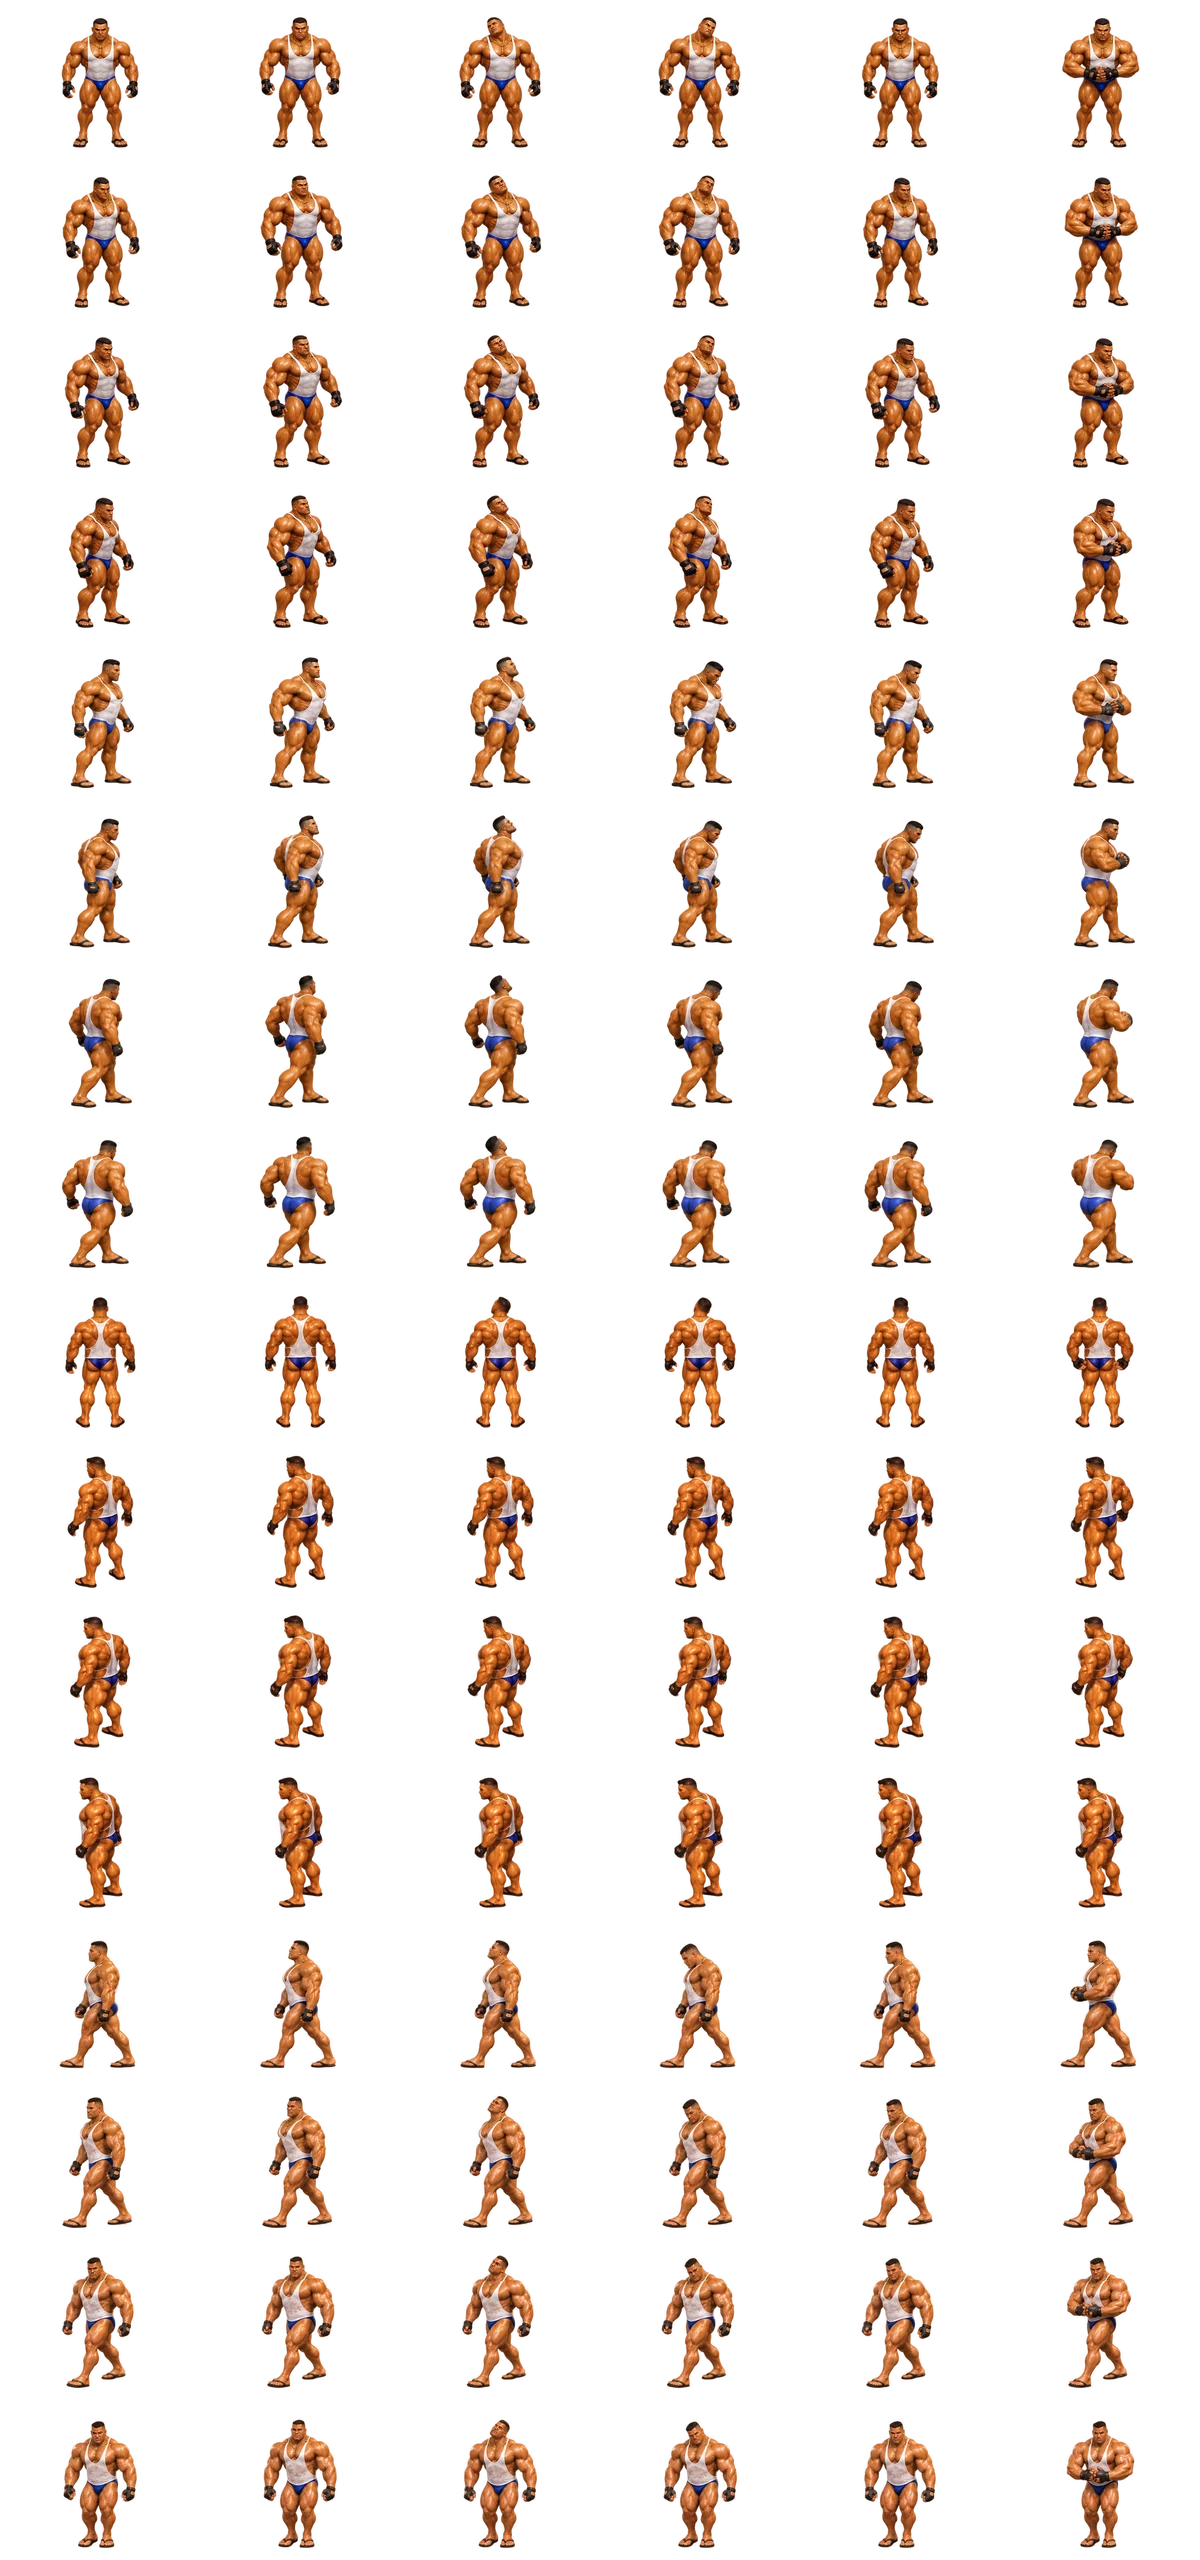
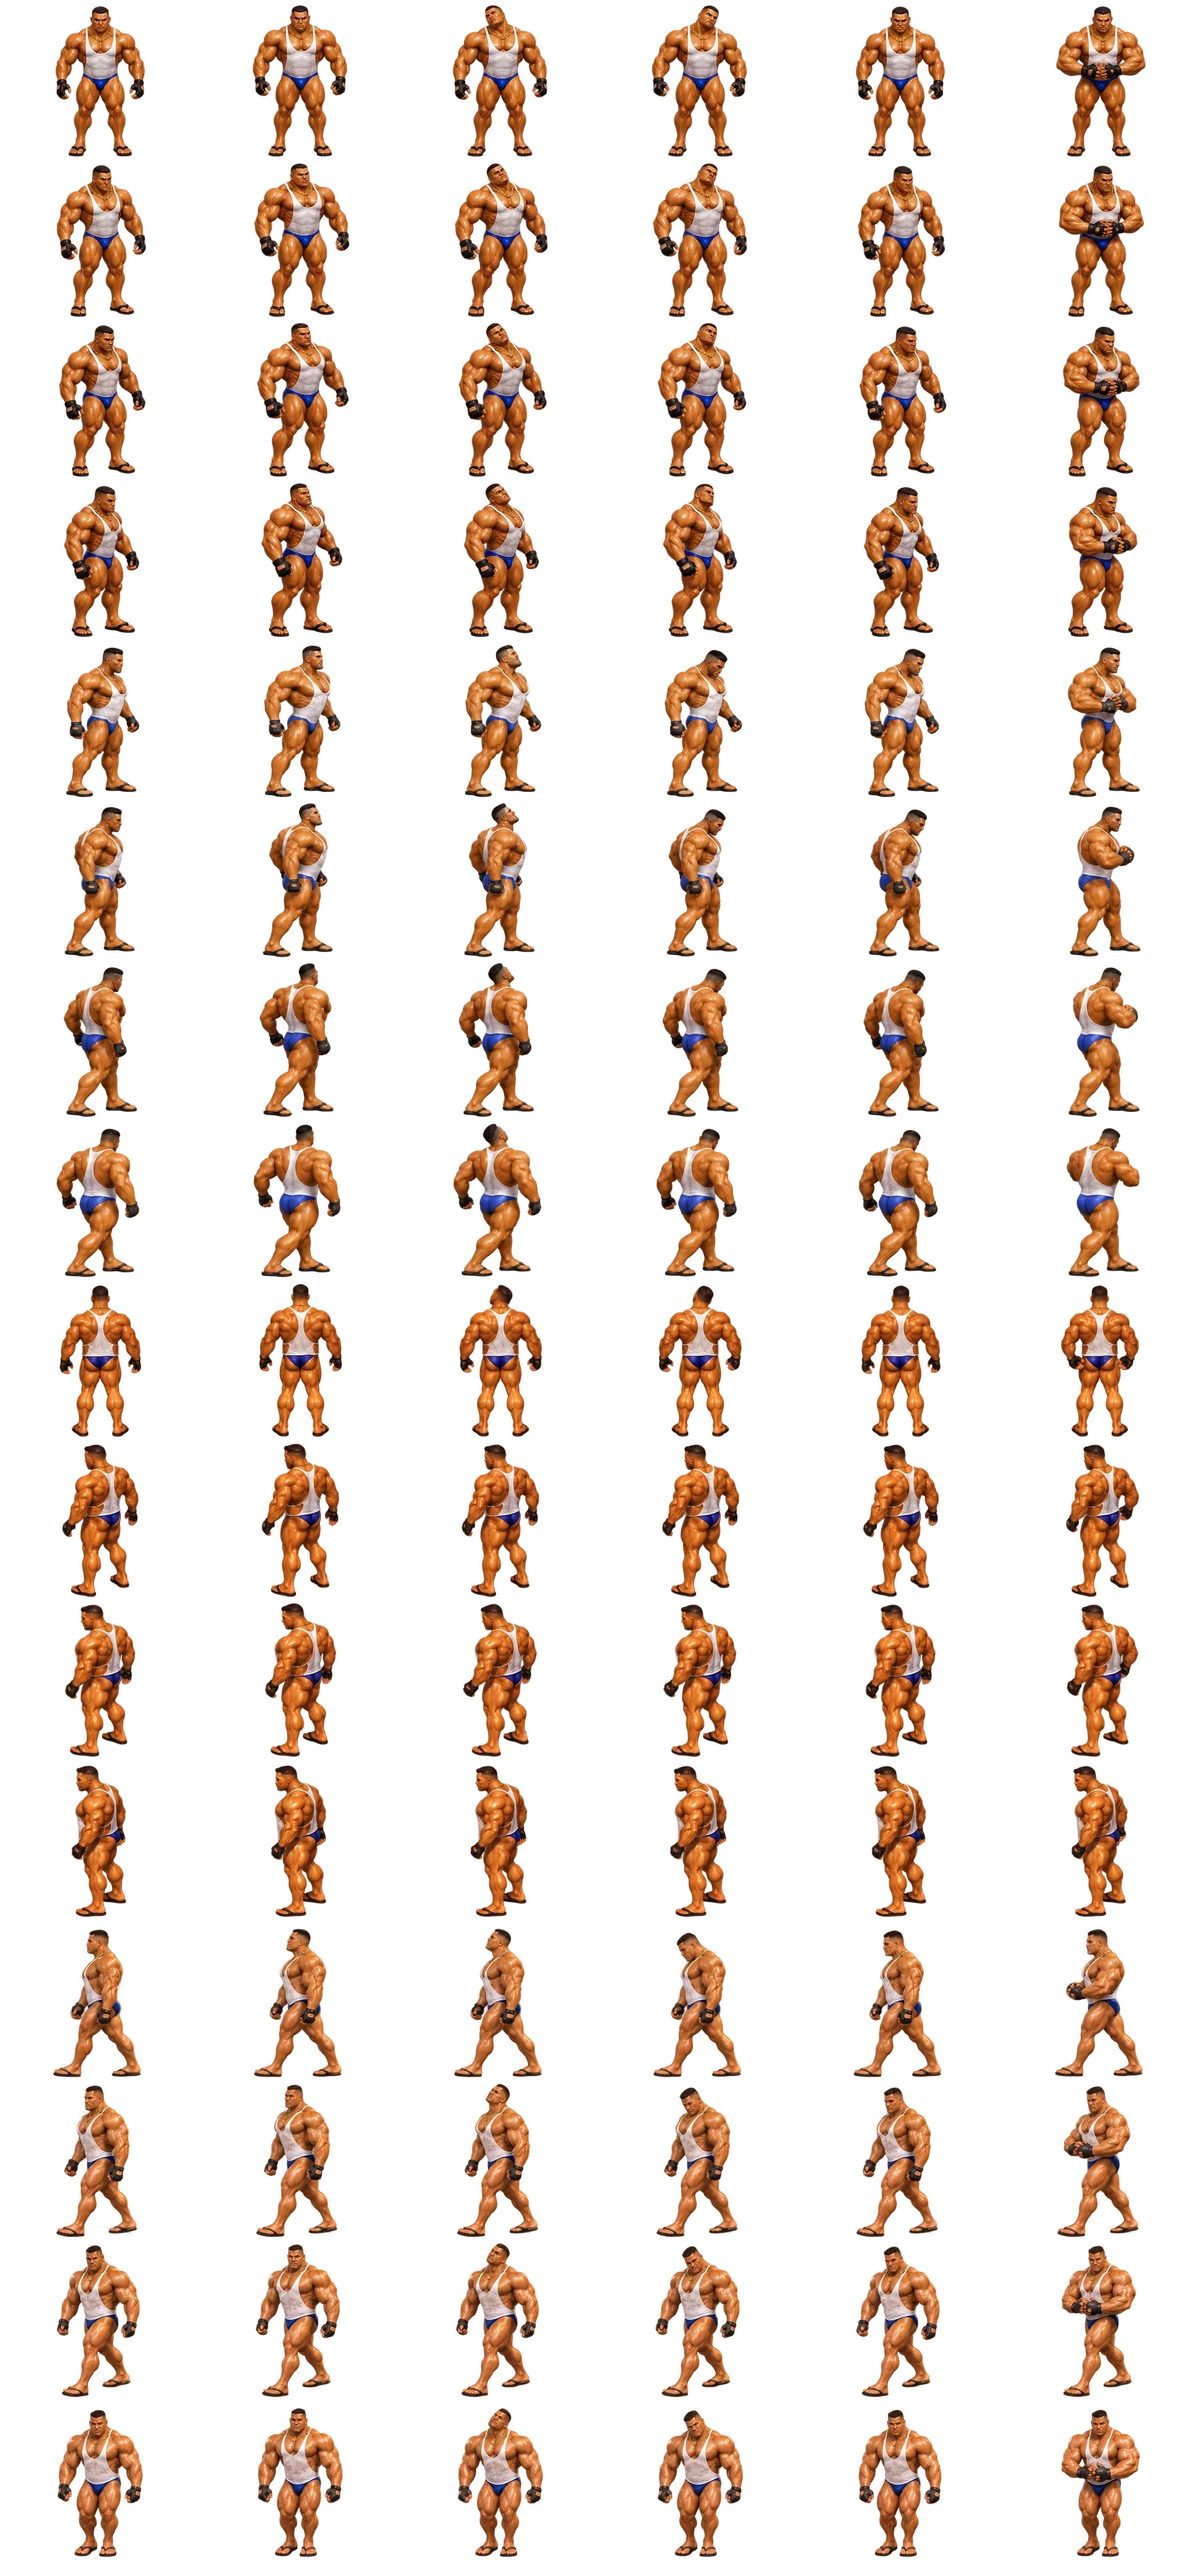
Monstrão do mesmo tamanho em toda animação (D83)
A caminhada de 12 quadros, o parado e as mortes estavam 18% menores que as
poses (montados com a escala de outro pacote) e com os pés acima do chão.
Montados de novo pelo próprio desenho.

Claude-Session: https://claude.ai/code/session_01V3nfXgj3At2PPcBsXwjYXU

diff --git a/docs/DECISOES.md b/docs/DECISOES.md
@@ -86,6 +86,7 @@ Continua o registro do pacote de conceito (`docs/concept-v0.1/06_Decisoes_e_Ques
 | D80 | 09/11/2026 | Bicheiro no lugar do Burocrata na Orla | Sugestão do autor. O **Burocrata-Monstro** sai da Orla (estava lá desde o protótipo; a tabela da rota o põe em São Paulo) e o **Bicheiro** entra como elite da Orla, revezando com o Político (o primeiro é sempre o Político; no ritmo normal o Bicheiro chega por volta de 2:30). Ele chega e **abre a banca**: espalha 3 bilhetes no chão em volta do Juninho, cada um com um bicho e o grupo, e solta 3 apontadores da horda, que correm (linha pontilhada) para recolher os bilhetes. O Juninho aposta pegando um: os outros somem e o bilhete fica em cima da cabeça dele. Derrubado o Bicheiro, sai o bicho, um dos 3 ("DEU CAMELO!"): quem acertou ganha a abertura de um cofre, com a roleta do bicho e as cartas ("GANHOU NO BICHO!"); quem errou ouve "A BANCA SEMPRE GANHA". Como elite, tem a barra de força e solta Propina e Maleta como o Político. **Sem o Burocrata, a Orla ficou mais fácil para o bot:** 17 de 48 partidas passaram de 8 min (eram 10 a 11). Tentativas de compensar com gente da Orla: o Rato mais frequente (Caos 20, peso 0,08) devolve a dificuldade (9 de 48), mas junta até 22 Ratos e prende o Juninho num canto; o Fiscal mais cedo não muda nada (16 e 17 de 48). Ficou sem compensação, para decidir no playtest. Ponto de loja: aposta com prêmio dentro do jogo pode ser classificada como "jogo de azar simulado" (sobe a classificação etária); não envolve dinheiro de verdade. Conferir junto com o D21. A pose do Monstrão (investida que corre a distância inteira) ganhou teste próprio em chão livre. Números em `config.js` (`ENEMIES.bicheiro`, `DIRECTOR.elitesOrla`) | Feito no protótipo; números são proposta |
 | D81 | 09/11/2026 | Dieta de memória das imagens | O autor viu a tela ficar preta (com o HUD ainda de pé) e o jogo muito lento na luta com o Monstrão. A conta das imagens decodificadas na Orla dava uns 640 MB: no Android, quando a memória de imagem acaba, o navegador apaga o canvas. Agora: as folhas cortadas em células usam uma escala menor quando a figura aparece pequena na tela (horda antiga 0,65; Golpista, Burocrata e Fiscal 0,7; Funkeiro e Traficante 0,75; Político, Bicheiro e Rato 0,8; Chefe do Tráfico 0,85; o Caramelo 0,6; o Juninho atropelado 0,75), sempre acima do tamanho em que são desenhadas (até 1,6× de densidade de tela); o Juninho e o Monstrão, que aparecem de perto, ficam inteiros. As casas da favela e os inimigos só do Morro saíram da carga do começo e entram quando a passagem para o Morro abre. A folha da Bola da Altinha foi para 75% (1728 × 1296; `tools/render-bola.py` ainda gera a de 2304, reduzir antes de pôr no jogo) e o desenho dela não depende mais do tamanho da célula. Na Orla, de uns 640 MB para uns 360 MB | Feito no protótipo |
 | D82 | 09/11/2026 | Chegada do Monstrão: silêncio, avenida e cerco | Pedido do autor: a luta com o chefe da Orla tinha inimigo demais e ficava lenta; ele quis um evento de chefe. Com o covil aberto, a Orla vai ficando em silêncio conforme o Juninho chega na arena (música e ambiente somem entre 40 e 12 m, e a horda nasce menos). A arena fica na frente da obra do fim da praia, colada na entrada da favela. Quando o Juninho entra nela: a música para, o tapume da frente da obra cai, o chão dentro da roda fica vazio (saem mesas, bancos, lixeiras, postes e objetos de pegar), os carros somem e a horda inteira vira torcida: quem estava na tela anda até o seu lugar e forma um cerco de duas linhas em volta da arena (9 m de raio). O Monstrão vem a pé pela avenida, do fim da Orla (a parede invisível da rua), com um tremor e um baque a cada passo, e a câmera olha para ele; a torcida abre uma brecha, ele entra, urra e a luta começa. A roda fecha um passo a cada 5 s ("HU!"), até 4,5 m; encostar nela machuca e empurra para dentro, e os golpes dele param nela como num carro (fica tonto). Durante o cerco a horda não nasce: só a assessoria dele, saindo da torcida. Com ele no chão, a torcida se espalha, o tapume do fundo cai e a escadaria do Morro fica logo ali. A torcida não é inimigo (as armas não miram nela), então pesa pouco: medido com o processador 4× mais lento, a luta antiga (Monstrão e 90 da horda) gastava 1,7 ms de simulação e 17,3 ms de desenho por quadro; com o cerco, 0,5 ms e 9,5 ms. No Modo Horda o chefão segue como antes. Bot (48 partidas): 17 passaram de 8 min, igual. Para testar só essa parte, o botão **Testar o Monstrão** na tela de início começa a partida no fim da Orla aos 10 min (build de uns 30 níveis, horda com a força desse tempo), com o covil aberto, a super da Bola da Altinha cheia e o Juninho a 34 m da arena; não libera trecho nem estrela, e Recomeçar volta para o mesmo ponto. Números em `config.js` (`CHEGADA`, `CHEGADA.teste`) | Feito no protótipo; números são proposta |
+| D83 | 09/11/2026 | Monstrão do mesmo tamanho em toda animação | O autor viu o Monstrão mudar de tamanho várias vezes na luta. A caminhada de 12 quadros, o parado e as mortes (D61) tinham sido montados copiando o recorte e a escala da caminhada antiga, que vem de outro pacote, onde ele está desenhado maior: nessas folhas ele ficava com 129 px em vez de 153 a 160 (18% menor que nas poses) e com os pés acima do chão. Montadas de novo pelo próprio desenho (`tools/montar-atlas.py` sem `--like` na caminhada e as outras com o recorte dela): em pé, ele tem a mesma altura em todas (0,96 a 1,01 da altura do desenho) e os pés no anel do chão | Feito no protótipo |
 
 ## Pendentes
 
